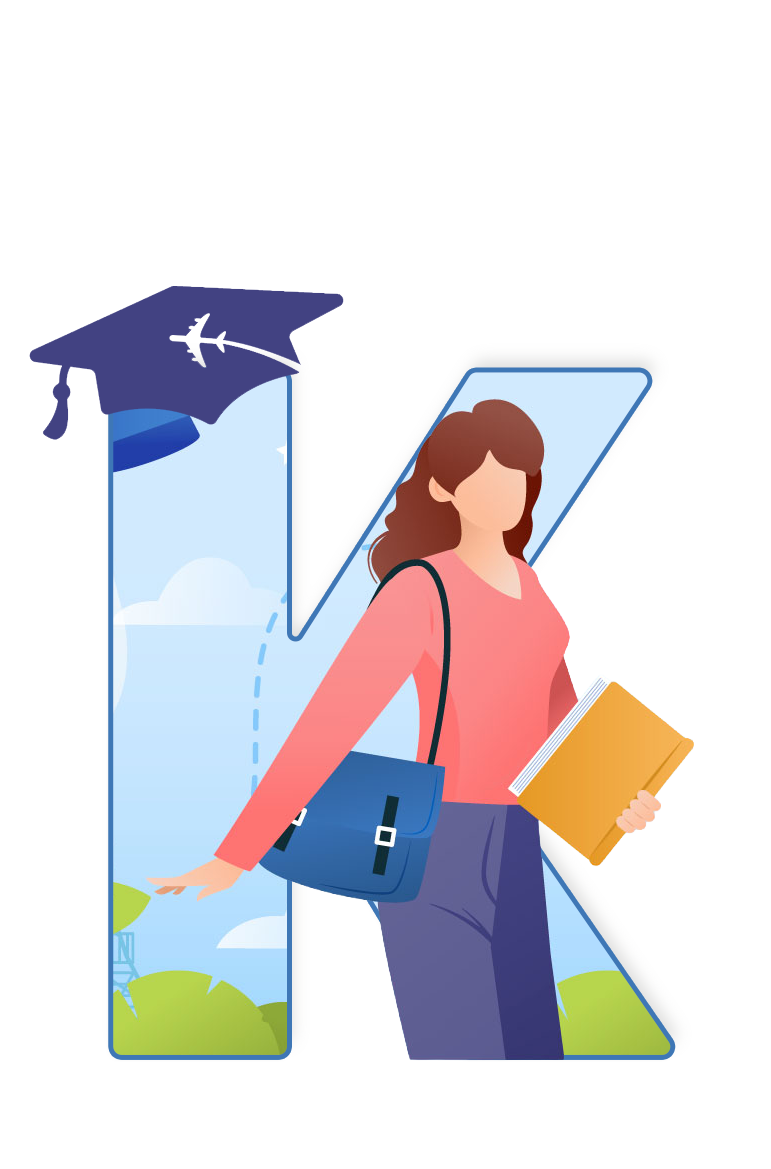
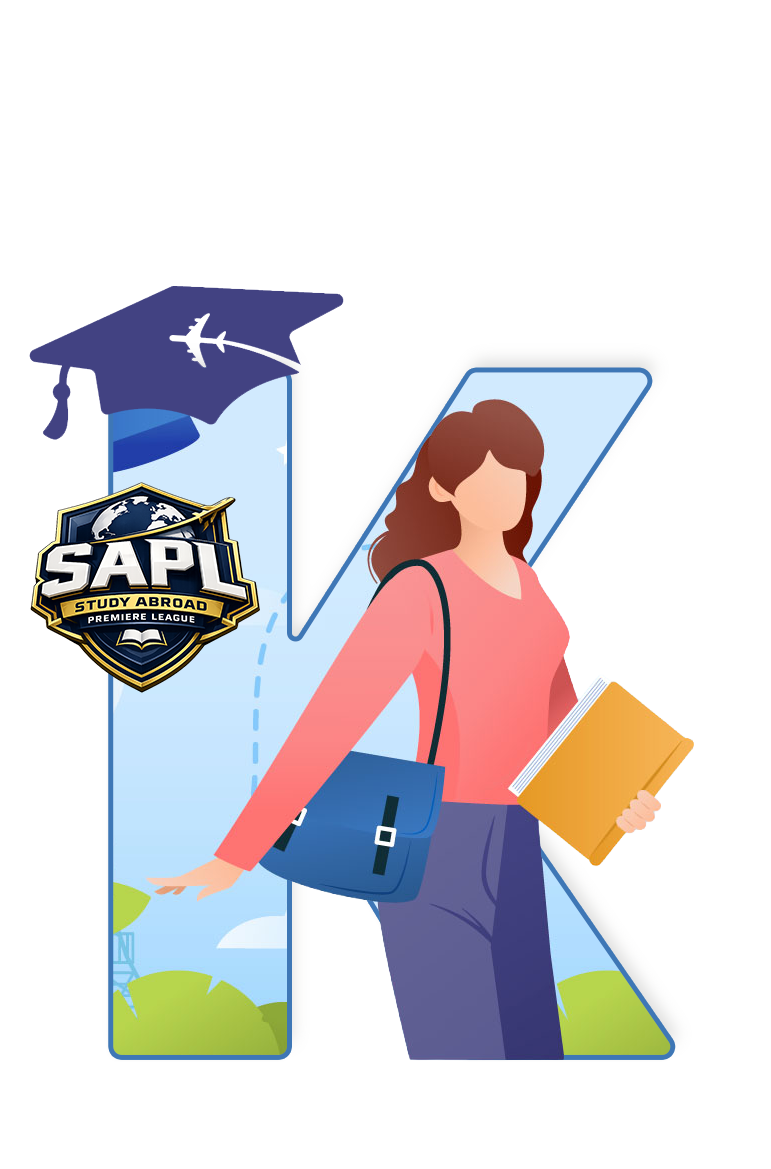
fixing bugs in radha ai

Changed region(s): [[0.0311, 0.4003, 0.3424, 0.6159]]

diff --git a/src/components/talktoceo/RadhAIVoicePage.tsx b/src/components/talktoceo/RadhAIVoicePage.tsx
@@ -15,9 +15,7 @@ import {
   TrendingUp,
   X,
 } from "lucide-react";
-
-const API_BASE_URL = "https://mailautomation-production.up.railway.app/api";
-const FILE_BASE_URL = "https://meta.oxyloans.com/radha-ai/files";
+import BASE_URL from "../../Config";
 
 type LanguageCode = "te" | "en" | "hi";
 
@@ -44,7 +42,7 @@ const AUTH_TOKEN =
 
 const ASSISTANT_ID = "radhAI";
 const VOICE_MODE = "ash";
-const REALTIME_MODEL = "gpt-4o-realtime-preview-2025-06-03";
+const REALTIME_MODEL = "gpt-realtime";
 
 const RADHAI_IMAGE = "https://i.ibb.co/RpvNHZCj/ceoai.png";
 
@@ -125,8 +123,7 @@ Always answer only in English.
 Speak naturally like a professional CEO AI assistant.`;
 };
 
-const RADHA_CHAT_API =
-  "https://radhaclone-production.up.railway.app/api/v1/radha/chat";
+const RADHA_CHAT_API = " ";
 
 const callRadhaChatApi = async (message: string): Promise<string> => {
   console.log("Radha Chat API URL:", RADHA_CHAT_API);
@@ -301,31 +298,30 @@ If exact company information is not available, say it politely instead of guessi
   };
 
   const getEphemeralToken = async (instructions: string): Promise<string> => {
-    const assistantId = ASSISTANT_ID;
-    const voicemode = VOICE_MODE.toLowerCase();
+    const tokenUrl =
+      "https://mailautomation-production.up.railway.app/api/realtime/token";
 
-    const tokenUrl = `${API_BASE_URL}/student-service/user/voicetoken?assistantId=${encodeURIComponent(
-      assistantId,
-    )}&voicemode=${encodeURIComponent(voicemode)}`;
+    const payload = {
+      instructions,
+      voice: VOICE_MODE,
+    };
 
     console.log("Voice Token API:", tokenUrl);
-    console.log("Voice Token Payload:", { instructions });
-    console.log("Assistant ID:", assistantId);
-    console.log("Voice Mode:", voicemode);
-    console.log("Has Auth Token:", Boolean(AUTH_TOKEN));
+    console.log("Voice Token Payload:", payload);
 
     const res = await fetch(tokenUrl, {
       method: "POST",
       headers: {
-        Authorization: `Bearer ${AUTH_TOKEN}`,
+        accept: "*/*",
         "Content-Type": "application/json",
       },
-      body: JSON.stringify({
-        instructions: instructions,
-      }),
+      body: JSON.stringify(payload),
     });
 
     const rawText = await res.text();
+
+    console.log("Voice Token API Status:", res.status);
+    console.log("Voice Token API Raw Response:", rawText);
 
     if (!res.ok) {
       throw new Error(`Voice token API failed: ${res.status} ${rawText}`);
@@ -333,11 +329,13 @@ If exact company information is not available, say it politely instead of guessi
 
     const data = JSON.parse(rawText);
 
-    if (!data?.client_secret?.value) {
-      throw new Error("client_secret.value missing in voice token response");
+    const token = data?.value || data?.client_secret?.value;
+
+    if (!token) {
+      throw new Error("Ephemeral token missing");
     }
 
-    return data.client_secret.value;
+    return token;
   };
 
   const setupSpeechRecognition = () => {
@@ -395,7 +393,21 @@ If exact company information is not available, say it politely instead of guessi
       try {
         const data = JSON.parse(event.data);
         console.log("Realtime event:", data.type, data);
+        if (data.type === "error") {
+          console.error("❌ Realtime API Error:", data.error);
+        }
 
+        if (data.type === "input_audio_buffer.speech_started") {
+          console.log("✅ Mic speech started");
+        }
+
+        if (data.type === "input_audio_buffer.speech_stopped") {
+          console.log("✅ Mic speech stopped");
+        }
+
+        if (data.type === "input_audio_buffer.committed") {
+          console.log("✅ Mic audio committed");
+        }
         if (
           (data.type === "response.output_text.delta" ||
             data.type === "response.audio_transcript.delta") &&
@@ -440,6 +452,26 @@ If exact company information is not available, say it politely instead of guessi
     };
   };
 
+  const waitForMicUnmuted = (track: MediaStreamTrack) => {
+    return new Promise<void>((resolve) => {
+      if (!track.muted) {
+        resolve();
+        return;
+      }
+
+      const timeout = setTimeout(() => {
+        console.warn("Mic still muted after wait, continuing...");
+        resolve();
+      }, 1500);
+
+      track.onunmute = () => {
+        console.log("🎤 Mic track unmuted");
+        clearTimeout(timeout);
+        resolve();
+      };
+    });
+  };
+
   const handleStartSession = async () => {
     try {
       setIsConnecting(true);
@@ -451,9 +483,22 @@ If exact company information is not available, say it politely instead of guessi
       stopSession();
 
       const instructions = getInstructionsByLanguage(languageCode);
+
       const ephemeralKey = await getEphemeralToken(instructions);
 
       const pc = new RTCPeerConnection();
+
+      pc.oniceconnectionstatechange = () => {
+        console.log("🧊 ICE state:", pc.iceConnectionState);
+      };
+
+      pc.onconnectionstatechange = () => {
+        console.log("🔗 PC state:", pc.connectionState);
+      };
+
+      pc.onicegatheringstatechange = () => {
+        console.log("🧊 ICE gathering:", pc.iceGatheringState);
+      };
       peerConnectionRef.current = pc;
 
       const audioEl = document.createElement("audio");
@@ -464,22 +509,57 @@ If exact company information is not available, say it politely instead of guessi
       };
 
       const micStream = await navigator.mediaDevices.getUserMedia({
-        audio: true,
+        audio: {
+          deviceId: "default",
+          echoCancellation: false,
+          noiseSuppression: false,
+          autoGainControl: false,
+        },
       });
 
       micStreamRef.current = micStream;
-      pc.addTrack(micStream.getTracks()[0]);
+
+      const audioTrack = micStream.getAudioTracks()[0];
+      audioTrack.onmute = () => {
+        console.warn("🎤 Mic track muted");
+      };
+
+      audioTrack.onunmute = () => {
+        console.log("🎤 Mic track unmuted");
+      };
+
+      audioTrack.onended = () => {
+        console.warn("🎤 Mic track ended");
+      };
+
+      if (!audioTrack) {
+        throw new Error("No microphone audio track found");
+      }
+
+      console.log("🎤 Mic tracks:", micStream.getAudioTracks());
+      console.log("🎤 Mic enabled:", audioTrack.enabled);
+      console.log("🎤 Mic readyState:", audioTrack.readyState);
+      console.log("🎤 Audio track settings:", audioTrack.getSettings());
+
+      await waitForMicUnmuted(audioTrack);
+
+      const sender = pc.addTrack(audioTrack, micStream);
+      console.log("🎤 Audio sender track:", sender.track);
 
       const dc = pc.createDataChannel("oai-events");
       dataChannelRef.current = dc;
       setupDataChannelHandlers(dc);
 
-      setupSpeechRecognition();
+      console.log("📡 Senders:", pc.getSenders());
+      console.log("📡 Transceivers:", pc.getTransceivers());
 
-      const offer = await pc.createOffer();
+      const offer = await pc.createOffer({
+        offerToReceiveAudio: true,
+      });
+
       await pc.setLocalDescription(offer);
 
-      const realtimeUrl = `https://api.openai.com/v1/realtime?model=${REALTIME_MODEL}`;
+      const realtimeUrl = "https://api.openai.com/v1/realtime/calls";
 
       console.log("Voice WebRTC API:", realtimeUrl);
 
@@ -502,6 +582,10 @@ If exact company information is not available, say it politely instead of guessi
         type: "answer",
         sdp: answerText,
       });
+
+      console.log("✅ Remote description set");
+      console.log("🔗 Final PC state:", pc.connectionState);
+      console.log("🧊 Final ICE state:", pc.iceConnectionState);
 
       setIsSessionActive(true);
     } catch (error) {

diff --git a/src/components/talktoceo/radhai.tsx b/src/components/talktoceo/radhai.tsx
@@ -114,17 +114,17 @@ const RadhAIPage: React.FC = () => {
           <div className="hidden items-center gap-3 sm:flex">
             <button
               onClick={handleWriteToUs}
-              className="inline-flex items-center gap-2 rounded-full border border-lime-300/30 bg-lime-300/10 px-4 py-2 text-xs font-black text-lime-300 transition hover:bg-lime-300 hover:text-black"
+              className="inline-flex h-10 items-center justify-center gap-2 rounded-full border border-lime-300/30 bg-lime-300/10 px-4 text-xs font-black text-lime-300 transition hover:bg-lime-300 hover:text-black"
             >
-              <Mail size={16} />
+              <Mail size={15} />
               Write to CEO
             </button>
 
             <button
               onClick={handleTalkToCEO}
-              className="inline-flex items-center gap-2 rounded-full bg-gradient-to-r from-cyan-300 to-lime-300 px-5 py-2.5 text-sm font-black text-black transition hover:scale-[1.03]"
+              className="inline-flex h-10 items-center justify-center gap-2 rounded-full bg-gradient-to-r from-cyan-300 to-lime-300 px-5 text-xs font-black text-black shadow-[0_0_25px_rgba(0,245,255,0.25)] transition hover:scale-[1.04]"
             >
-              <Mic size={17} />
+              <Mic size={15} />
               Talk to CEO
             </button>
           </div>
@@ -175,17 +175,17 @@ const RadhAIPage: React.FC = () => {
           <div className="mt-5 grid grid-cols-2 gap-3 sm:hidden">
             <button
               onClick={handleTalkToCEO}
-              className="flex min-h-[52px] items-center justify-center gap-2 rounded-2xl bg-gradient-to-r from-lime-300 to-cyan-300 px-3 py-3 text-xs font-black text-black"
+              className="flex min-h-[48px] items-center justify-center gap-2 rounded-2xl bg-gradient-to-r from-lime-300 to-cyan-300 px-3 py-3 text-xs font-black text-black"
             >
-              <Mic size={17} />
+              <Mic size={16} />
               Talk to CEO
             </button>
 
             <button
               onClick={handleWriteToUs}
-              className="flex min-h-[52px] items-center justify-center gap-2 rounded-2xl border border-cyan-300/40 bg-white/[0.07] px-3 py-3 text-xs font-black text-cyan-200"
+              className="flex min-h-[48px] items-center justify-center gap-2 rounded-2xl border border-cyan-300/40 bg-white/[0.07] px-3 py-3 text-xs font-black text-cyan-200"
             >
-              <MessageCircle size={17} />
+              <MessageCircle size={16} />
               Write to CEO
             </button>
           </div>
@@ -226,7 +226,7 @@ const RadhAIPage: React.FC = () => {
               Radhakrishna Thatavarti is the CEO & Founder of
             </p>
 
-            <div className="mt-4 grid grid-cols-3 gap-3">
+            <div className="mt-4 grid grid-cols-2 gap-3 sm:grid-cols-3">
               {groupCompanies.map((item) => (
                 <a
                   key={item.name}
@@ -245,20 +245,20 @@ const RadhAIPage: React.FC = () => {
             </div>
           </div>
 
-          <div className="mt-6 hidden grid-cols-2 gap-3 sm:grid">
+          <div className="mt-6 hidden items-center gap-3 sm:flex lg:justify-start">
             <button
               onClick={handleTalkToCEO}
-              className="flex min-h-[54px] items-center justify-center gap-2 rounded-2xl bg-gradient-to-r from-lime-300 to-cyan-300 px-4 py-3 font-black text-black transition hover:scale-[1.02]"
+              className="inline-flex h-11 items-center justify-center gap-2 rounded-full bg-gradient-to-r from-lime-300 to-cyan-300 px-5 text-sm font-black text-black shadow-[0_0_24px_rgba(132,255,0,0.28)] transition hover:scale-[1.04]"
             >
-              <Mic size={18} />
+              <Mic size={16} />
               Talk to CEO
             </button>
 
             <button
               onClick={handleWriteToUs}
-              className="flex min-h-[54px] items-center justify-center gap-2 rounded-2xl border border-cyan-300/40 bg-white/[0.07] px-4 py-3 font-black text-cyan-200 transition hover:bg-white/[0.12]"
+              className="inline-flex h-11 items-center justify-center gap-2 rounded-full border border-cyan-300/35 bg-white/[0.07] px-5 text-sm font-black text-cyan-200 transition hover:bg-white/[0.12]"
             >
-              <MessageCircle size={18} />
+              <MessageCircle size={16} />
               Write to CEO
             </button>
           </div>